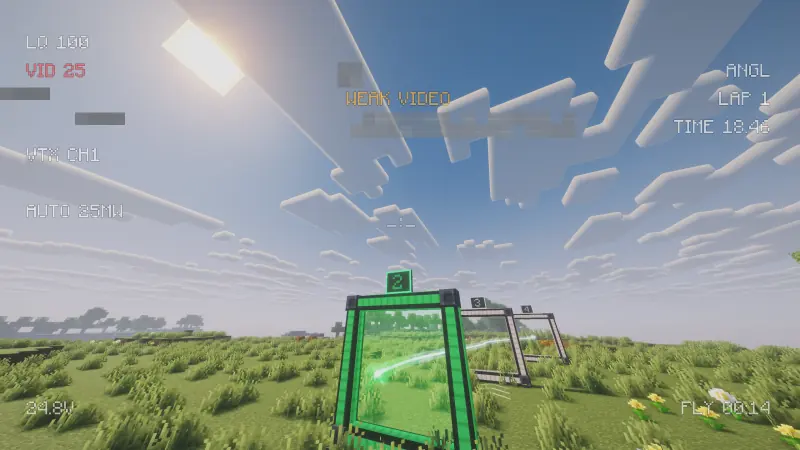
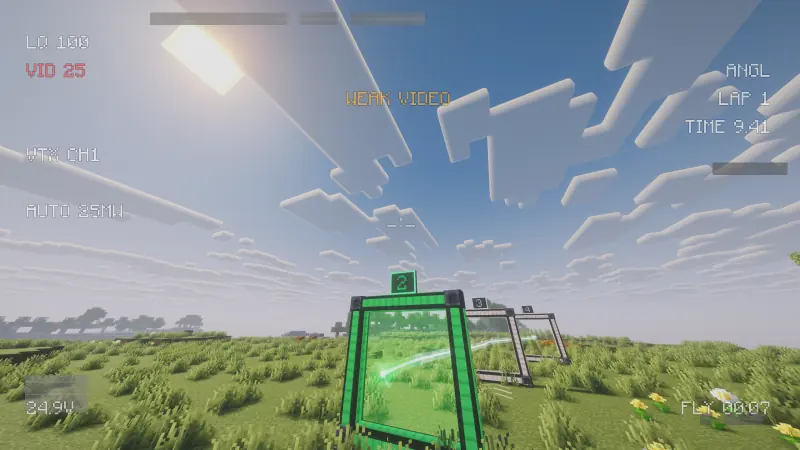
Video-Abschnitt (SITE-NACH2-3): „Clean HD“ ist jetzt video-digital-clean, dieselbe Szene und derselbe Blickpunkt wie „Blur & blocks“ (beide neu aus einem Lauf, Landschaft Seed 20261003, mit Shader, digital ohne REC-Overlay), der Regler zeigt so denselben Flug; Bildbeschreibung in allen 7 Sprachen

diff --git a/index.html b/index.html
@@ -544,7 +544,7 @@
               <img class="feed__img" loading="lazy" src="assets/img/video-analog-stage5-1600.webp" srcset="assets/img/video-analog-stage5-800.webp 800w, assets/img/video-analog-stage5-1600.webp 1600w" sizes="(min-width: 1060px) 760px, 100vw" width="1600" height="900" decoding="async" alt="Analog video lost: full static and NO VIDEO in the OSD" data-de-alt="Analoges Video weg: volles Rauschen, im OSD „NO VIDEO“">
             </div>
             <div class="vlab__set" data-system="digital" hidden>
-              <img class="feed__img is-active" loading="lazy" src="assets/img/osd-flight-1600.webp" srcset="assets/img/osd-flight-800.webp 800w, assets/img/osd-flight-1600.webp 1600w" sizes="(min-width: 1060px) 760px, 100vw" width="1600" height="900" decoding="async" alt="Digital video: a clean HD picture through the checkered start/finish gate in the arena, with the OSD" data-de-alt="Digitales Video: klares HD-Bild durch das karierte Start-/Ziel-Gate in der Arena, mit OSD">
+              <img class="feed__img is-active" loading="lazy" src="assets/img/video-digital-clean-1600.webp" srcset="assets/img/video-digital-clean-800.webp 800w, assets/img/video-digital-clean-1600.webp 1600w" sizes="(min-width: 1060px) 760px, 100vw" width="1600" height="900" decoding="async" alt="Digital video: a clean HD picture over a meadow towards gate 2, lit green, with the OSD" data-de-alt="Digitales Video: klares HD-Bild über einer Wiese auf das grün leuchtende Gate 2 zu, mit OSD">
               <img class="feed__img" loading="lazy" src="assets/img/video-digital-breakup-1600.webp" srcset="assets/img/video-digital-breakup-800.webp 800w, assets/img/video-digital-breakup-1600.webp 1600w" sizes="(min-width: 1060px) 760px, 100vw" width="1600" height="900" decoding="async" alt="Digital video breaking up: blur and block artifacts smear the picture" data-de-alt="Digitales Video bricht ein: Unschärfe und Blockartefakte verschmieren das Bild">
             </div>
             <span class="feed__static" aria-hidden="true"></span>
